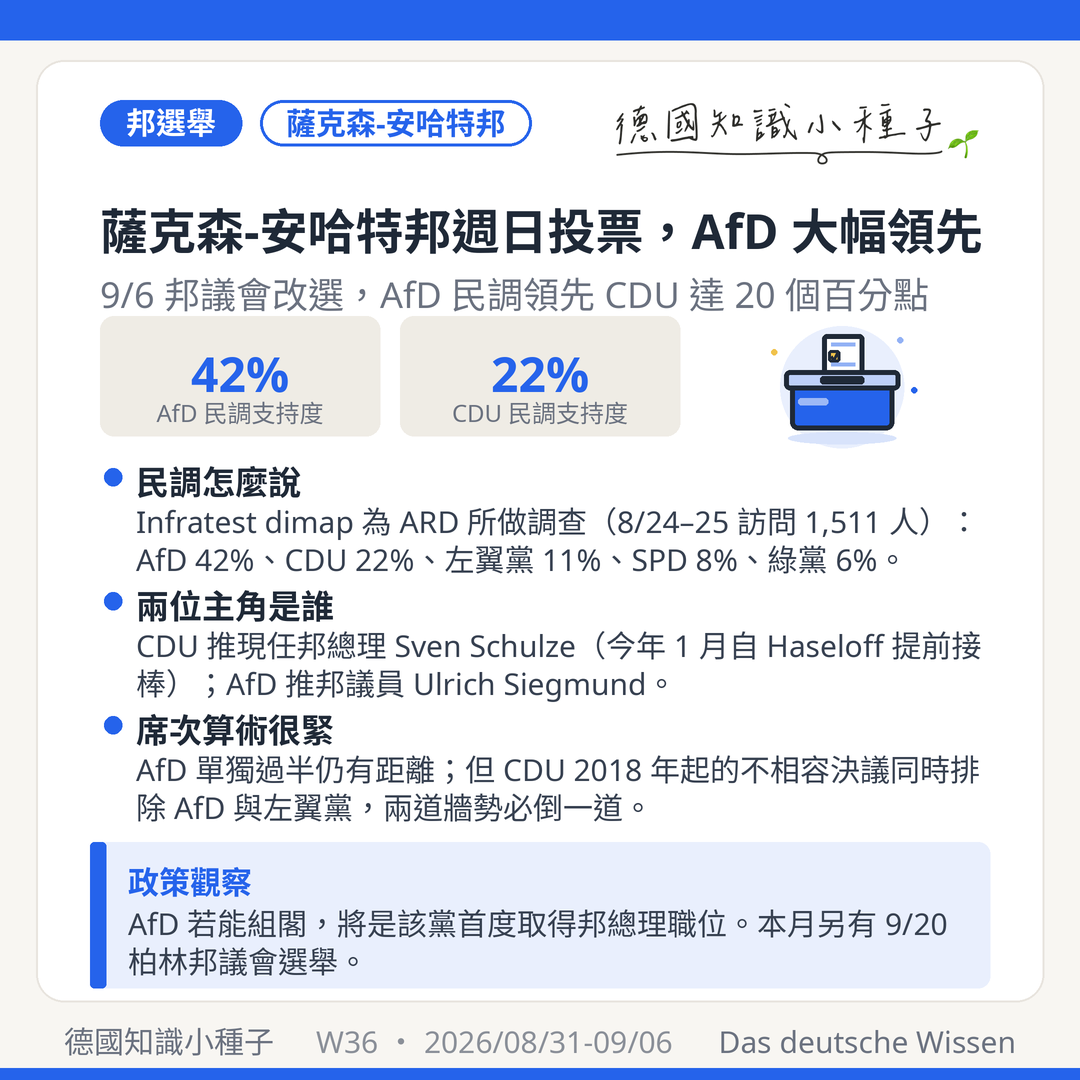
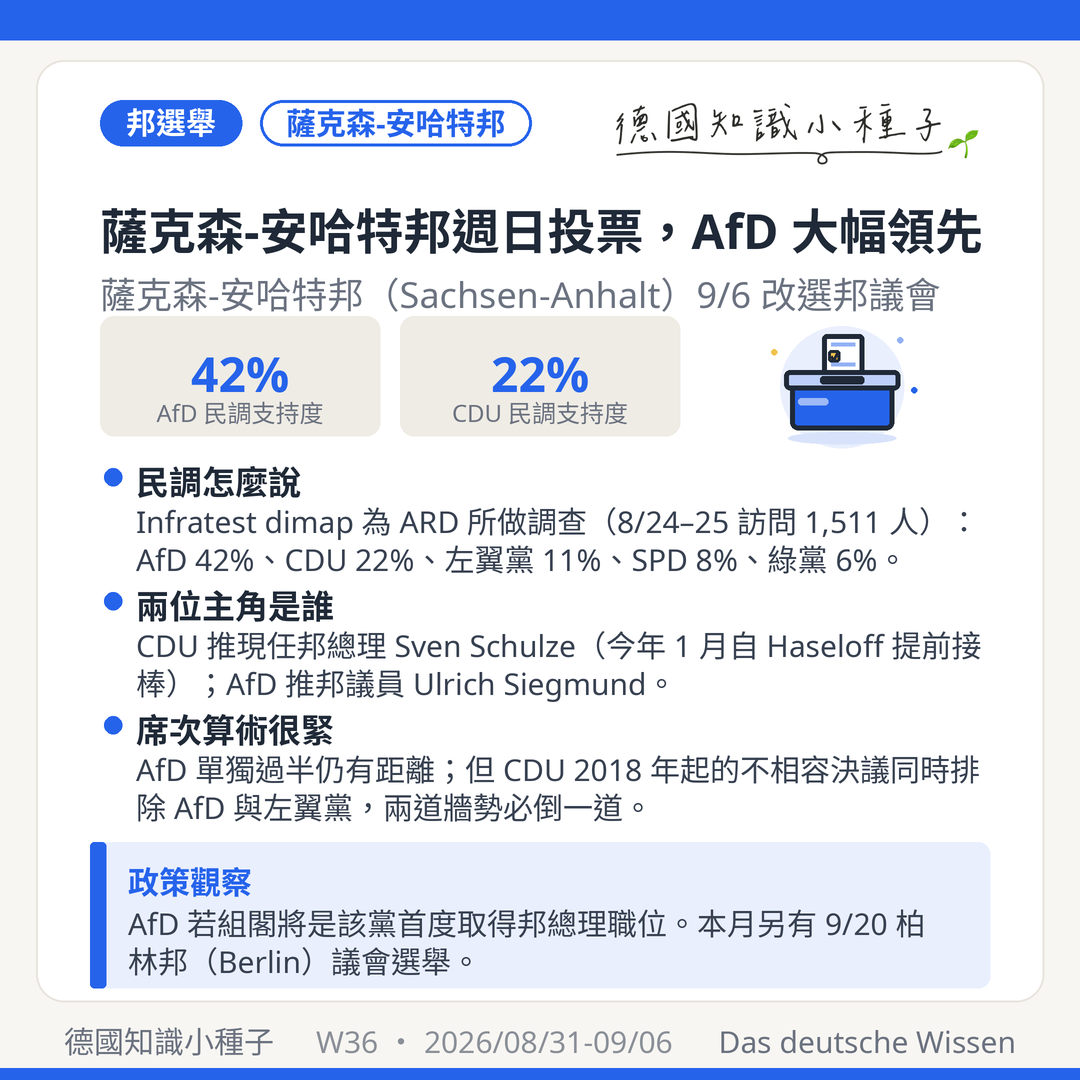
W36 修正：邦名補上德文全名，並在產圖器加入自動檢查
CLAUDE.md 鐵則「邦名一律寫◯◯邦並附德文全名」在第 6 張圖卡整張漏掉，
社群稿的首次提及也漏了。修正並加上自動檢查避免再犯：

- 圖卡6 副標補「薩克森-安哈特邦（Sachsen-Anhalt）」，觀察框補「柏林邦（Berlin）」
- 社群稿 FB／IG 首次提及補上 Sachsen-Anhalt、Berlin；IG 版的 Brandenburg 亦補上
- js/data.js 與重建靜態頁：柏林邦補 Berlin
- 產圖器新增 check_states()：卡片提到 16 個聯邦邦任一而全卡未出現對應德文時警告
  （長短邦名以已比對清單扣除，避免「薩克森」誤命中「下薩克森」「薩克森-安哈特」）

Claude-Session: https://claude.ai/code/session_0146auhYrkbMfHeQpEpSdo4p

Changed region(s): [[0.1222, 0.825, 0.8861, 0.9167], [0.0917, 0.2444, 0.8861, 0.3056]]

diff --git a/js/data.js b/js/data.js
@@ -614,7 +614,7 @@ const POSTS = [
 <p><strong>民調的差距大到不太尋常。</strong>Infratest dimap 為 ARD 所做的調查（<strong>8 月 24 至 25 日訪問 1,511 名具投票資格者，8 月 26 日發表</strong>）結果為：<strong>AfD 42%、CDU 22%、左翼黨（Die Linke）11%、SPD 8%、綠黨（Bündnis 90/Die Grünen）6%、BSW 4%、FDP 3%</strong>。INSA 的調查也給出 AfD 42%、CDU 22% 的相同格局。<strong>AfD 領先執政的 CDU 達二十個百分點</strong>，且該黨在此邦的民調已連續數月停在四成以上。</p>
 <p><strong>兩位主角的處境不對稱。</strong>CDU 推派的是現任邦總理 <strong>Sven Schulze</strong>（46 歲，Quedlinburg 人，曾任青年聯盟主席與 2014 至 2021 年的歐洲議會議員）。他<strong>在 2026 年 1 月從同黨的 Reiner Haseloff 手中提前接任邦總理</strong>——這是刻意安排的世代交替，目的正是讓他帶著「在任者優勢」進入這場選舉。AfD 推派的是 <strong>Ulrich Siegmund</strong>（35 歲），<strong>2016 年起任邦議員、2022 年起任該黨邦議會黨團共同主席</strong>。</p>
 <p><strong>真正的難題在選後的席次算術。</strong>依民調，<strong>AfD 單獨取得絕對多數仍有距離，要執政就必須找到聯盟夥伴</strong>——而其他政黨目前都排除與其合作。但 CDU 這邊也被自己綁住：<strong>該黨在薩克森-安哈特邦自 2018 年起有一項「不相容決議」（Unvereinbarkeitsbeschluss），同時禁止與 AfD 和左翼黨合作</strong>。當左翼黨民調來到 11%、而扣掉 AfD 之後的多數難以湊齊時，當地媒體《Volksstimme》的評論給出的判斷是：<strong>兩道牆勢必得倒下一道</strong>。一個可能的出路是 CDU 籌組少數政府，再由左翼黨在個案上支持。</p>
-<p><strong>為什麼在德台灣人也該關心一場東部邦的選舉。</strong>邦議會的組成會直接影響<strong>聯邦參議院（Bundesrat）的票數分配</strong>，而許多聯邦法案——包括本週剛通過內閣的所得稅改革草案——都需要經過聯邦參議院這一關。邦層級同時掌握教育、警政與外國人事務主管機關（Ausländerbehörde）的行政資源分配，政治版圖的變動會反映在這些日常行政的優先順序上。<strong>本月另有 9 月 20 日的柏林邦議會選舉</strong>，兩場結果合起來，會決定 Merz 政府在秋季推動改革時手上還有多少籌碼。</p>
+<p><strong>為什麼在德台灣人也該關心一場東部邦的選舉。</strong>邦議會的組成會直接影響<strong>聯邦參議院（Bundesrat）的票數分配</strong>，而許多聯邦法案——包括本週剛通過內閣的所得稅改革草案——都需要經過聯邦參議院這一關。邦層級同時掌握教育、警政與外國人事務主管機關（Ausländerbehörde）的行政資源分配，政治版圖的變動會反映在這些日常行政的優先順序上。<strong>本月另有 9 月 20 日的柏林邦（Berlin）議會選舉</strong>，兩場結果合起來，會決定 Merz 政府在秋季推動改革時手上還有多少籌碼。</p>
 <p class="post-sources">📚 來源：<a href="https://www.infratest-dimap.de/umfragen-analysen/bundeslaender/sachsen-anhalt/sonntagsfrage/" target="_blank" rel="noopener noreferrer">Infratest dimap：薩克森-安哈特邦民調</a> · <a href="https://www.bpb.de/kurz-knapp/hintergrund-aktuell/581006/landtagswahl-in-sachsen-anhalt-2026/" target="_blank" rel="noopener noreferrer">聯邦政治教育中心：2026 薩克森-安哈特邦議會選舉背景</a> · <a href="https://www.zdfheute.de/politik/deutschland/landtagswahl-sachsen-anhalt-spitzenkandidaten-schulze-siegmund-von-angern-100.html" target="_blank" rel="noopener noreferrer">ZDFheute：各黨領銜候選人</a> · <a href="https://www.volksstimme.de/wahl/landtagswahl-sachsen-anhalt/kommentar-wahl-umfrage-brandmauer-cdu-linke-afd-4245831" target="_blank" rel="noopener noreferrer">Volksstimme 評論：一道防火牆終將倒下</a> · <a href="https://www.wahlrecht.de/umfragen/landtage/sachsen-anhalt.htm" target="_blank" rel="noopener noreferrer">wahlrecht.de：歷次民調彙整</a></p>
 
 <hr>

diff --git a/posts/weekly-digest.html b/posts/weekly-digest.html
@@ -223,7 +223,7 @@
 <p><strong>民調的差距大到不太尋常。</strong>Infratest dimap 為 ARD 所做的調查（<strong>8 月 24 至 25 日訪問 1,511 名具投票資格者，8 月 26 日發表</strong>）結果為：<strong>AfD 42%、CDU 22%、左翼黨（Die Linke）11%、SPD 8%、綠黨（Bündnis 90/Die Grünen）6%、BSW 4%、FDP 3%</strong>。INSA 的調查也給出 AfD 42%、CDU 22% 的相同格局。<strong>AfD 領先執政的 CDU 達二十個百分點</strong>，且該黨在此邦的民調已連續數月停在四成以上。</p>
 <p><strong>兩位主角的處境不對稱。</strong>CDU 推派的是現任邦總理 <strong>Sven Schulze</strong>（46 歲，Quedlinburg 人，曾任青年聯盟主席與 2014 至 2021 年的歐洲議會議員）。他<strong>在 2026 年 1 月從同黨的 Reiner Haseloff 手中提前接任邦總理</strong>——這是刻意安排的世代交替，目的正是讓他帶著「在任者優勢」進入這場選舉。AfD 推派的是 <strong>Ulrich Siegmund</strong>（35 歲），<strong>2016 年起任邦議員、2022 年起任該黨邦議會黨團共同主席</strong>。</p>
 <p><strong>真正的難題在選後的席次算術。</strong>依民調，<strong>AfD 單獨取得絕對多數仍有距離，要執政就必須找到聯盟夥伴</strong>——而其他政黨目前都排除與其合作。但 CDU 這邊也被自己綁住：<strong>該黨在薩克森-安哈特邦自 2018 年起有一項「不相容決議」（Unvereinbarkeitsbeschluss），同時禁止與 AfD 和左翼黨合作</strong>。當左翼黨民調來到 11%、而扣掉 AfD 之後的多數難以湊齊時，當地媒體《Volksstimme》的評論給出的判斷是：<strong>兩道牆勢必得倒下一道</strong>。一個可能的出路是 CDU 籌組少數政府，再由左翼黨在個案上支持。</p>
-<p><strong>為什麼在德台灣人也該關心一場東部邦的選舉。</strong>邦議會的組成會直接影響<strong>聯邦參議院（Bundesrat）的票數分配</strong>，而許多聯邦法案——包括本週剛通過內閣的所得稅改革草案——都需要經過聯邦參議院這一關。邦層級同時掌握教育、警政與外國人事務主管機關（Ausländerbehörde）的行政資源分配，政治版圖的變動會反映在這些日常行政的優先順序上。<strong>本月另有 9 月 20 日的柏林邦議會選舉</strong>，兩場結果合起來，會決定 Merz 政府在秋季推動改革時手上還有多少籌碼。</p>
+<p><strong>為什麼在德台灣人也該關心一場東部邦的選舉。</strong>邦議會的組成會直接影響<strong>聯邦參議院（Bundesrat）的票數分配</strong>，而許多聯邦法案——包括本週剛通過內閣的所得稅改革草案——都需要經過聯邦參議院這一關。邦層級同時掌握教育、警政與外國人事務主管機關（Ausländerbehörde）的行政資源分配，政治版圖的變動會反映在這些日常行政的優先順序上。<strong>本月另有 9 月 20 日的柏林邦（Berlin）議會選舉</strong>，兩場結果合起來，會決定 Merz 政府在秋季推動改革時手上還有多少籌碼。</p>
 <p class="post-sources">📚 來源：<a href="https://www.infratest-dimap.de/umfragen-analysen/bundeslaender/sachsen-anhalt/sonntagsfrage/" target="_blank" rel="noopener noreferrer">Infratest dimap：薩克森-安哈特邦民調</a> · <a href="https://www.bpb.de/kurz-knapp/hintergrund-aktuell/581006/landtagswahl-in-sachsen-anhalt-2026/" target="_blank" rel="noopener noreferrer">聯邦政治教育中心：2026 薩克森-安哈特邦議會選舉背景</a> · <a href="https://www.zdfheute.de/politik/deutschland/landtagswahl-sachsen-anhalt-spitzenkandidaten-schulze-siegmund-von-angern-100.html" target="_blank" rel="noopener noreferrer">ZDFheute：各黨領銜候選人</a> · <a href="https://www.volksstimme.de/wahl/landtagswahl-sachsen-anhalt/kommentar-wahl-umfrage-brandmauer-cdu-linke-afd-4245831" target="_blank" rel="noopener noreferrer">Volksstimme 評論：一道防火牆終將倒下</a> · <a href="https://www.wahlrecht.de/umfragen/landtage/sachsen-anhalt.htm" target="_blank" rel="noopener noreferrer">wahlrecht.de：歷次民調彙整</a></p>
 
 <hr>

diff --git a/scripts/cardgen/make_weekly_cards.py b/scripts/cardgen/make_weekly_cards.py
@@ -1423,7 +1423,7 @@ CARDS = [
  dict(
   theme='#2563EB', badges=[('邦選舉', True), ('薩克森-安哈特邦', False)], illu='ballotbox',
   title='薩克森-安哈特邦週日投票，AfD 大幅領先',
-  subtitle='9/6 邦議會改選，AfD 民調領先 CDU 達 20 個百分點',
+  subtitle='薩克森-安哈特邦（Sachsen-Anhalt）9/6 改選邦議會',
   stats=[('42%', 'AfD 民調支持度'),
          ('22%', 'CDU 民調支持度')],
   bullets=[
@@ -1431,13 +1431,53 @@ CARDS = [
    ('兩位主角是誰', 'CDU 推現任邦總理 Sven Schulze（今年 1 月自 Haseloff 提前接棒）；AfD 推邦議員 Ulrich Siegmund。'),
    ('席次算術很緊', 'AfD 單獨過半仍有距離；但 CDU 2018 年起的不相容決議同時排除 AfD 與左翼黨，兩道牆勢必倒一道。'),
   ],
-  takeaway=('政策觀察', 'AfD 若能組閣，將是該黨首度取得邦總理職位。本月另有 9/20 柏林邦議會選舉。'),
+  takeaway=('政策觀察', 'AfD 若組閣將是該黨首度取得邦總理職位。本月另有 9/20 柏林邦（Berlin）議會選舉。'),
   file='W36_圖卡6_薩克森安哈特邦選舉.png'),
 ]
+
+# ── 邦名德文全名檢查 ────────────────────────────────────────
+# CLAUDE.md 鐵則：提到聯邦邦一律寫「◯◯邦」並附德文全名，不可只給簡寫或只有中文。
+# 目測會漏（W36 第 6 張就漏了），故在產圖時自動掃描每張卡的全部文字。
+STATES = {
+    '梅克倫堡-佛波門': 'Mecklenburg-Vorpommern',
+    '北萊茵-西發利亞': 'Nordrhein-Westfalen',
+    '什勒斯維希-霍爾斯坦': 'Schleswig-Holstein',
+    '下薩克森': 'Niedersachsen',
+    '巴登-符騰堡': 'Baden-Württemberg',
+    '萊茵蘭-普法茲': 'Rheinland-Pfalz',
+    '薩克森-安哈特': 'Sachsen-Anhalt',
+    '圖林根': 'Thüringen',
+    '巴伐利亞': 'Bayern',
+    '黑森': 'Hessen',
+    '薩爾蘭': 'Saarland',
+    '布蘭登堡': 'Brandenburg',
+    '不來梅': 'Bremen',
+    '漢堡': 'Hamburg',
+    '柏林': 'Berlin',
+    '薩克森': 'Sachsen',          # 需排在「下薩克森」「薩克森-安哈特」之後比對
+}
+
+def check_states(spec):
+    """卡片提到某邦卻沒附德文全名時出聲警告"""
+    blob = ' '.join([spec['title'], spec['subtitle'],
+                     ' '.join(l for b in spec['badges'] for l in (b[0],)),
+                     ' '.join(h + b for h, b in spec['bullets']),
+                     ' '.join(spec['takeaway'])])
+    seen = ''
+    for zh, de in STATES.items():
+        # 先扣掉已比對過的長邦名，避免「薩克森」誤命中「下薩克森」「薩克森-安哈特」
+        probe = blob
+        for longer in seen.split('|'):
+            if longer:
+                probe = probe.replace(longer, '')
+        if (zh + '邦') in probe and de not in blob:
+            print(f"  ⚠ 邦名缺德文: 提到「{zh}邦」但全卡未出現 {de}  ({spec['file']})")
+        seen += '|' + zh
 
 if __name__ == '__main__':
     import os, sys
     OUT = sys.argv[1] if len(sys.argv) > 1 else '.'
     os.makedirs(OUT, exist_ok=True)
     for c in CARDS:
+        check_states(c)
         make_card(c, os.path.join(OUT, c['file']), WEEK, DATE_RANGE)
